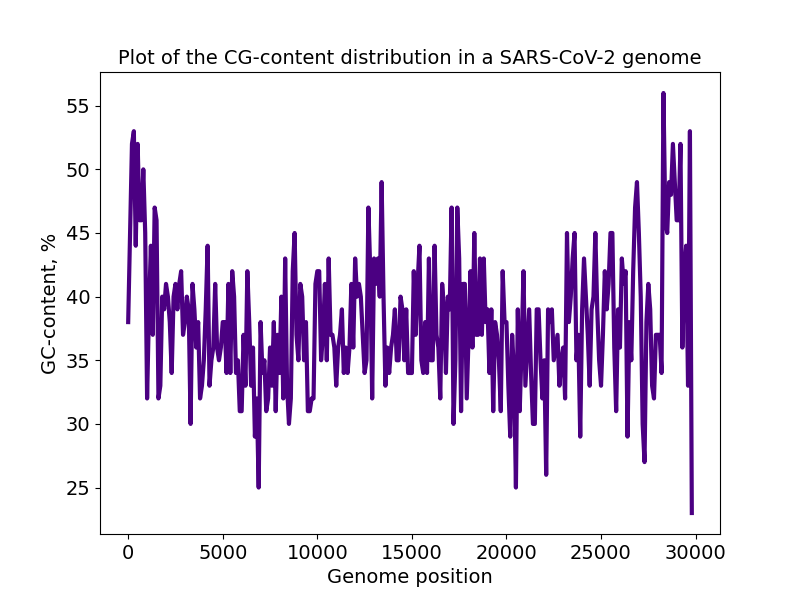
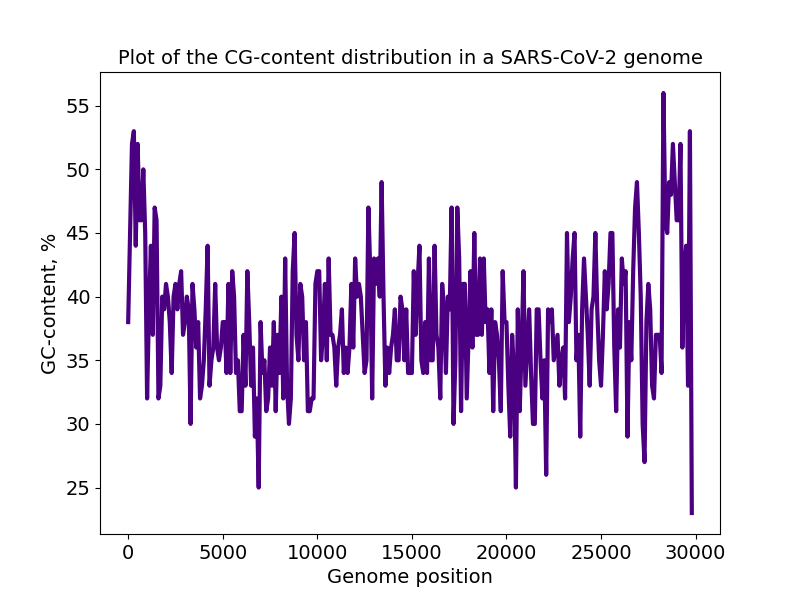
removed separate plotting function

diff --git a/plot_gc_content.py b/plot_gc_content.py
@@ -6,65 +6,36 @@ import random
 IMAGES_DIR = "./gc-content_ratios"
 
 
-def plot_gc_content_ratio(genome_position: np.array,
-                  gc_content: np.array,
-                  dataset: str = "random DNA sequence",
-                  outfile: str = IMAGES_DIR + "/gc-content.png",
-                  figsize: tuple = (8, 6),
-                  fontsize: int = 14,
-                  linewidth: int = 3,
-                  linecolor: str = "indigo"
-                  ):
+def gc_content_ratio(
+    genomic_data: str, 
+    step: int = 100, 
+    dataset_name: str = "random DNA sequence",
+    outfile_name: str = IMAGES_DIR + "/gc-content.png", 
+    figsize: tuple = (8, 6),
+    fontsize: int = 14,
+    linewidth: int = 3,
+    linecolor: str = "indigo"
+    ):
 
-    """
-       The function for plotting the GC-content ratio
-       in a DNA sequence. 
-       The resulting graph is saved to .png file
-
-       In the graph:
-           * x-axis: Genome position -- position of first base
-                     in a bin
-           * y-axis: GC-content ratio in %
-
-      Input parameters:
-           * genome_position and gc_content -- two numpy arrays, 
-             used for creating the graph -- x and y(x), respectively
-           * other parameters are intended to make the graph 
-             prettier and more descriptive 
-    """
-    
-    plt.figure(figsize = figsize)
-    plt.plot(genome_position, 
-             gc_content, 
-             color = linecolor, 
-             linewidth = linewidth)
-    plt.title(f"Plot of the CG-content distribution in a {dataset}", fontsize = fontsize)
-    plt.xlabel("Genome position", fontsize = fontsize)
-    plt.ylabel("GC-content, %", fontsize = fontsize)
-    plt.xticks(fontsize = fontsize)
-    plt.yticks(fontsize = fontsize)
-    plt.savefig(outfile)
-    plt.close()
-
-
-def gc_content_ratio(genomic_data: str, 
-                     step: int = 100, 
-                     dataset_name: str = "random DNA sequence",
-                     outfile_name: str = IMAGES_DIR + "/gc-content.png"
-                     ):
     """
        A function that 
        (1) calculates CG-content ratio for each of
        the 'step' segments of the molecule, which DNA sequence
        is given in the 'genomic_data' parameter and
-       (2) plots the GC ratio and saves the graph to image file,
-       using external function 'plot_gc_content_ration'
+       (2) plots the GC ratio and saves the graph to image file
+
+       In the plot:
+           * x-axis: Genome position -- position of first base
+                     in a bin
+           * y-axis: GC-content ratio in % 
 
        Input parameters:
           * genomic_data (string) -- a DNA sequence
           * step (int) -- denotes a width of a subsequence within
                           which the GC-content ratio is calculated.
                           By default bin width = 100 characters.
+          * other parameters are intended to make the graph 
+            prettier and more descriptive
     """
 
     molecule_length = len(genomic_data)
@@ -81,10 +52,18 @@ def gc_content_ratio(genomic_data: str,
             genome_position[index] = start_base
         index += 1
 
-    plot_gc_content_ratio(genome_position, 
-                          gc_content, 
-                          dataset = dataset_name,
-                          outfile = outfile_name)
+    plt.figure(figsize = figsize)
+    plt.plot(genome_position,
+             gc_content,
+             color = linecolor,
+             linewidth = linewidth)
+    plt.title(f"Plot of the CG-content distribution in a {dataset_name}", fontsize = fontsize)
+    plt.xlabel("Genome position", fontsize = fontsize)
+    plt.ylabel("GC-content, %", fontsize = fontsize)
+    plt.xticks(fontsize = fontsize)
+    plt.yticks(fontsize = fontsize)
+    plt.savefig(outfile_name)
+    plt.close()
 
 
 # *** Some tests ***
